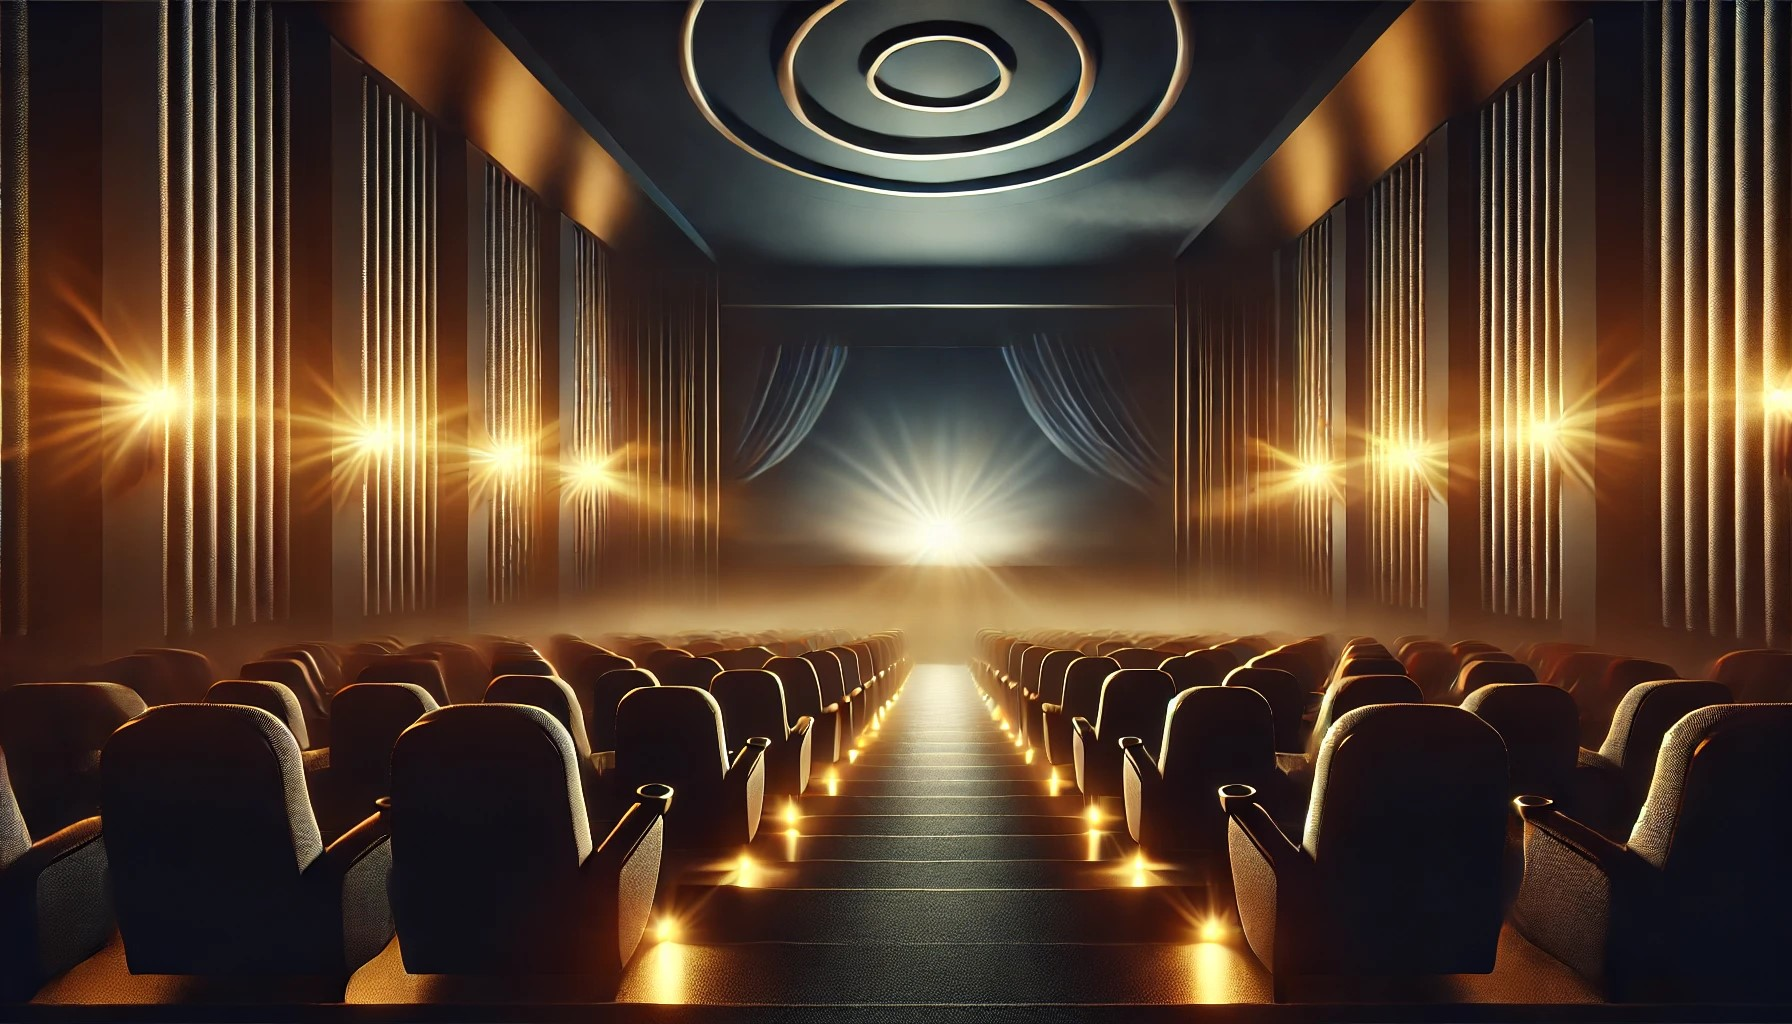
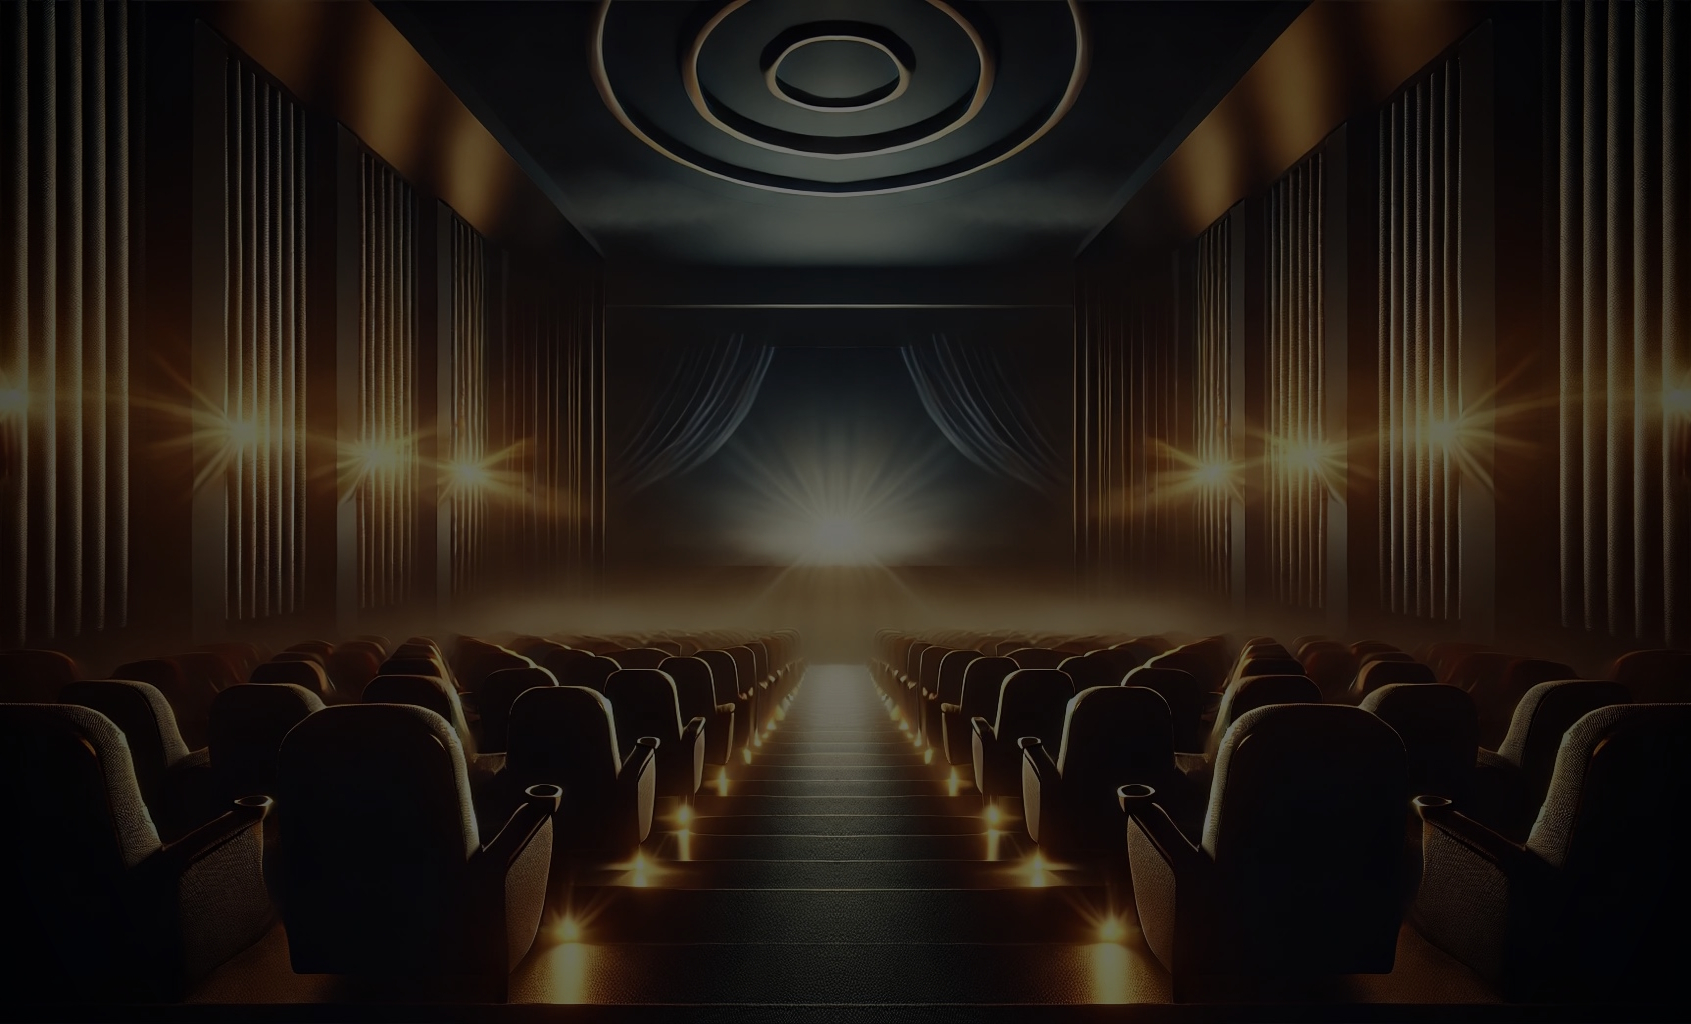
commit manual pq o vs me odeia
quase tudo pronto acho q só mudar a cor dos assentos ja selecionados

diff --git a/index.html b/index.html
@@ -5,8 +5,8 @@
   <meta charset="UTF-8">
   <meta http-equiv="X-UA-Compatible" content="IE=edge">
   <meta name="viewport" content="width=device-width, initial-scale=1.0">
-  <title>Movie Theater Booking App</title>
-  <link rel="stylesheet" href="/style/style.css">
+  <title>Selecionador de Lugar no Cinema</title>
+  <link rel="stylesheet" href="style/style.css">
 </head>
 
 <body onload="onLoaderFunc()">
@@ -14,10 +14,10 @@
 <div class="tudo">
  <div class="tudo">
   <div class="inputForm">
-    Name : <input type="text" id="Username" required>
-    Number of Seats : <input type="number" id="Numseats" required>
+    Nome : <input type="text" id="Username" required>
+    Número de Assentos : <input type="number" id="Numseats" required>
     <br /><br />
-    <button onclick="takeData()">Start Selecting</button>
+    <button onclick="takeData()">Selecionar</button>
   </div>
 
   <div class="seatStructure">
@@ -26,12 +26,12 @@
       <p id="notification"></p>
       <tr>
         <td colspan="14">
-          <div class="screen">SCREEN</div>
+          <div class="screen">TELA</div>
         </td>
         <td rowspan="20">
-          <div class="smallBox greenBox">Selected Seat</div> <br />
-          <div class="smallBox redBox">Reserved Seat</div><br />
-          <div class="smallBox emptyBox">Empty Seat</div><br />
+          <div class="smallBox emptyBox">Assento Vazio</div><br />
+          <div class="smallBox greenBox">Assento Selecionado</div> <br />
+          <div class="smallBox redBox">Assento Reservado</div><br />
         </td>
 
         <br />
@@ -44,8 +44,8 @@
         <td>3</td>
         <td>4</td>
         <td>5</td>
-        <td></td>
         <td>6</td>
+        <td></td>
         <td>7</td>
         <td>8</td>
         <td>9</td>
@@ -61,8 +61,8 @@
         <td><input type="checkbox" class="seats" value="A3"></td>
         <td><input type="checkbox" class="seats" value="A4"></td>
         <td><input type="checkbox" class="seats" value="A5"></td>
-        <td class="seatGap"></td>
         <td><input type="checkbox" class="seats" value="A6"></td>
+        <td class="seatGap"></td>
         <td><input type="checkbox" class="seats" value="A7"></td>
         <td><input type="checkbox" class="seats" value="A8"></td>
         <td><input type="checkbox" class="seats" value="A9"></td>
@@ -78,8 +78,8 @@
         <td><input type="checkbox" class="seats" value="B3"></td>
         <td><input type="checkbox" class="seats" value="B4"></td>
         <td><input type="checkbox" class="seats" value="B5"></td>
-        <td></td>
         <td><input type="checkbox" class="seats" value="B6"></td>
+        <td></td>
         <td><input type="checkbox" class="seats" value="B7"></td>
         <td><input type="checkbox" class="seats" value="B8"></td>
         <td><input type="checkbox" class="seats" value="B9"></td>
@@ -95,8 +95,8 @@
         <td><input type="checkbox" class="seats" value="C3"></td>
         <td><input type="checkbox" class="seats" value="C4"></td>
         <td><input type="checkbox" class="seats" value="C5"></td>
-        <td></td>
         <td><input type="checkbox" class="seats" value="C6"></td>
+        <td></td>
         <td><input type="checkbox" class="seats" value="C7"></td>
         <td><input type="checkbox" class="seats" value="C8"></td>
         <td><input type="checkbox" class="seats" value="C9"></td>
@@ -112,8 +112,8 @@
         <td><input type="checkbox" class="seats" value="D3"></td>
         <td><input type="checkbox" class="seats" value="D4"></td>
         <td><input type="checkbox" class="seats" value="D5"></td>
-        <td></td>
         <td><input type="checkbox" class="seats" value="D6"></td>
+        <td></td>
         <td><input type="checkbox" class="seats" value="D7"></td>
         <td><input type="checkbox" class="seats" value="D8"></td>
         <td><input type="checkbox" class="seats" value="D9"></td>
@@ -129,8 +129,8 @@
         <td><input type="checkbox" class="seats" value="E3"></td>
         <td><input type="checkbox" class="seats" value="E4"></td>
         <td><input type="checkbox" class="seats" value="E5"></td>
-        <td></td>
         <td><input type="checkbox" class="seats" value="E6"></td>
+        <td></td>
         <td><input type="checkbox" class="seats" value="E7"></td>
         <td><input type="checkbox" class="seats" value="E8"></td>
         <td><input type="checkbox" class="seats" value="E9"></td>
@@ -148,8 +148,8 @@
         <td><input type="checkbox" class="seats" value="F3"></td>
         <td><input type="checkbox" class="seats" value="F4"></td>
         <td><input type="checkbox" class="seats" value="F5"></td>
-        <td></td>
         <td><input type="checkbox" class="seats" value="F6"></td>
+        <td></td>
         <td><input type="checkbox" class="seats" value="F7"></td>
         <td><input type="checkbox" class="seats" value="F8"></td>
         <td><input type="checkbox" class="seats" value="F9"></td>
@@ -165,8 +165,8 @@
         <td><input type="checkbox" class="seats" value="G3"></td>
         <td><input type="checkbox" class="seats" value="G4"></td>
         <td><input type="checkbox" class="seats" value="G5"></td>
-        <td></td>
         <td><input type="checkbox" class="seats" value="G6"></td>
+        <td></td>
         <td><input type="checkbox" class="seats" value="G7"></td>
         <td><input type="checkbox" class="seats" value="G8"></td>
         <td><input type="checkbox" class="seats" value="G9"></td>
@@ -182,8 +182,8 @@
         <td><input type="checkbox" class="seats" value="H3"></td>
         <td><input type="checkbox" class="seats" value="H4"></td>
         <td><input type="checkbox" class="seats" value="H5"></td>
-        <td></td>
         <td><input type="checkbox" class="seats" value="H6"></td>
+        <td></td>
         <td><input type="checkbox" class="seats" value="H7"></td>
         <td><input type="checkbox" class="seats" value="H8"></td>
         <td><input type="checkbox" class="seats" value="H9"></td>
@@ -199,8 +199,8 @@
         <td><input type="checkbox" class="seats" value="I3"></td>
         <td><input type="checkbox" class="seats" value="I4"></td>
         <td><input type="checkbox" class="seats" value="I5"></td>
-        <td></td>
         <td><input type="checkbox" class="seats" value="I6"></td>
+        <td></td>
         <td><input type="checkbox" class="seats" value="I7"></td>
         <td><input type="checkbox" class="seats" value="I8"></td>
         <td><input type="checkbox" class="seats" value="I9"></td>
@@ -216,8 +216,8 @@
         <td><input type="checkbox" class="seats" value="J3"></td>
         <td><input type="checkbox" class="seats" value="J4"></td>
         <td><input type="checkbox" class="seats" value="J5"></td>
-        <td></td>
         <td><input type="checkbox" class="seats" value="J6"></td>
+        <td></td>
         <td><input type="checkbox" class="seats" value="J7"></td>
         <td><input type="checkbox" class="seats" value="J8"></td>
         <td><input type="checkbox" class="seats" value="J9"></td>
@@ -227,22 +227,17 @@
       </tr>
 
     </table>
-    <button id="confirmSelectionButton" onclick="updateTextArea()">Confirm Selection</button>
+    <button id="confirmSelectionButton" onclick="updateTextArea()">Confirmar Seleção</button>
   </div>
 
   <br /><br />
 
   <div class="displayerBoxes">
-      <table class="Displaytable">
+      <table class="Displaytable" id="data-table">
         <tr>
-          <th>Name</th>
-          <th>Number of Seats</th>
-          <th>Seats</th>
-        </tr>
-        <tr>
-          <td><textarea id="nameDisplay"></textarea></td>
-          <td><textarea id="NumberDisplay"></textarea></td>
-          <td><textarea id="seatsDisplay"></textarea></td>
+          <th>Nome</th>
+          <th>Número de Assentos</th>
+          <th>Assentos</th>
         </tr>
       </table>
 
@@ -250,7 +245,7 @@
 
   
 </div>
-  <script src="/script/script.js"></script>
+  <script src="script/script.js"></script>
 </body>
 
 </html>

diff --git a/script/script.js b/script/script.js
@@ -1,10 +1,9 @@
-// script.js
-
 // Função executada ao carregar a página
 function onLoaderFunc() {
   document.querySelectorAll(".seats").forEach((seat) => {
     seat.checked = false; // Garante que todos os assentos comecem desmarcados
   });
+  document.getElementById("notification").textContent = "";
 }
 
 // Armazena os dados inseridos pelo usuário
@@ -20,7 +19,7 @@ function takeData() {
   document.getElementById("notification").textContent = `Selecione ${numSeats} assento(s).`;
 }
 
-// Atualiza o texto com as informações selecionadas pelo usuário
+// Atualiza o texto com as informações selecionadas pelo usuário e salva na tabela
 function updateTextArea() {
   const name = document.getElementById("Username").value;
   const numSeats = parseInt(document.getElementById("Numseats").value, 10);
@@ -38,9 +37,15 @@ function updateTextArea() {
     return;
   }
 
-  document.getElementById("nameDisplay").value = name;
-  document.getElementById("NumberDisplay").value = numSeats;
-  document.getElementById("seatsDisplay").value = selectedSeats.join(", ");
+  // Adiciona os dados na tabela
+  const table = document.getElementById("data-table");
+  const row = table.insertRow();
+  row.insertCell(0).textContent = name;
+  row.insertCell(1).textContent = numSeats;
+  row.insertCell(2).textContent = selectedSeats.join(", ");
+
+  // Reseta o formulário
+  resetForm();
 }
 
 // Previne a seleção de mais assentos que o número permitido
@@ -56,3 +61,13 @@ seats.forEach((seat) => {
     }
   });
 });
+
+// Função para resetar o formulário
+function resetForm() {
+  document.getElementById("Username").value = "";
+  document.getElementById("Numseats").value = "";
+  document.querySelectorAll(".seats").forEach((seat) => {
+    seat.checked = false;
+  });
+  document.getElementById("notification").textContent = "";
+}

diff --git a/style/style.css b/style/style.css
@@ -1,11 +1,22 @@
 body {
+  display: flex;
   font-family: "Helvetica Neue", Helvetica, Arial, sans-serif;
   margin: 0;
   padding: 0;
-  background: url("/imagens/hero.jpeg") no-repeat center center fixed;
+  background: url("../imagens/hero.jpeg") no-repeat center center fixed;
   background-size: cover;
   color: #fff;
-  overflow: hidden;
+  align-items: center;
+  justify-content: center;
+}
+
+.tudo {
+  backdrop-filter: blur(10px);
+}
+
+.selected-seat {
+  background-color: red;
+  pointer-events: none;
 }
 
 .inputForm {
@@ -35,7 +46,7 @@ body {
   padding: 10px;
   font-size: 16px;
   font-weight: bold;
-  background-color: #4388cc;
+  background-color:#2e1c5f;
   color: #fff;
   border: none;
   border-radius: 5px;
@@ -44,13 +55,13 @@ body {
 }
 
 .inputForm button:hover {
-  background-color: #316ba6;
+  background-color:#8a3ec9;
 }
 
 .screen {
   width: 100%;
   height: 20px;
-  background: #4388cc;
+  background-color: #2e1c5f;
   color: #fff;
   text-align: center;
   line-height: 20px;
@@ -112,6 +123,16 @@ table {
   text-align: center;
 }
 
+.seatStructure {
+  display: flex;
+  flex-direction: column;
+  background-color: rgba(0, 0, 0, 0.651);
+  border-radius: 3%;
+  max-width: fit-content;
+  align-items: center;
+  justify-content: center;
+}
+
 textarea {
   border: none;
   background: transparent;
@@ -131,13 +152,14 @@ textarea {
   padding: 10px;
   font-size: 16px;
   font-weight: bold;
-  background-color: #4388cc;
+  background-color: #2e1c5f;
   color: #fff;
   border: none;
   border-radius: 5px;
   cursor: pointer;
+  max-width: 50%;
 }
 
 #confirmSelectionButton:hover {
-  background-color: #316ba6;
+  background-color: #8a3ec9;
 }
